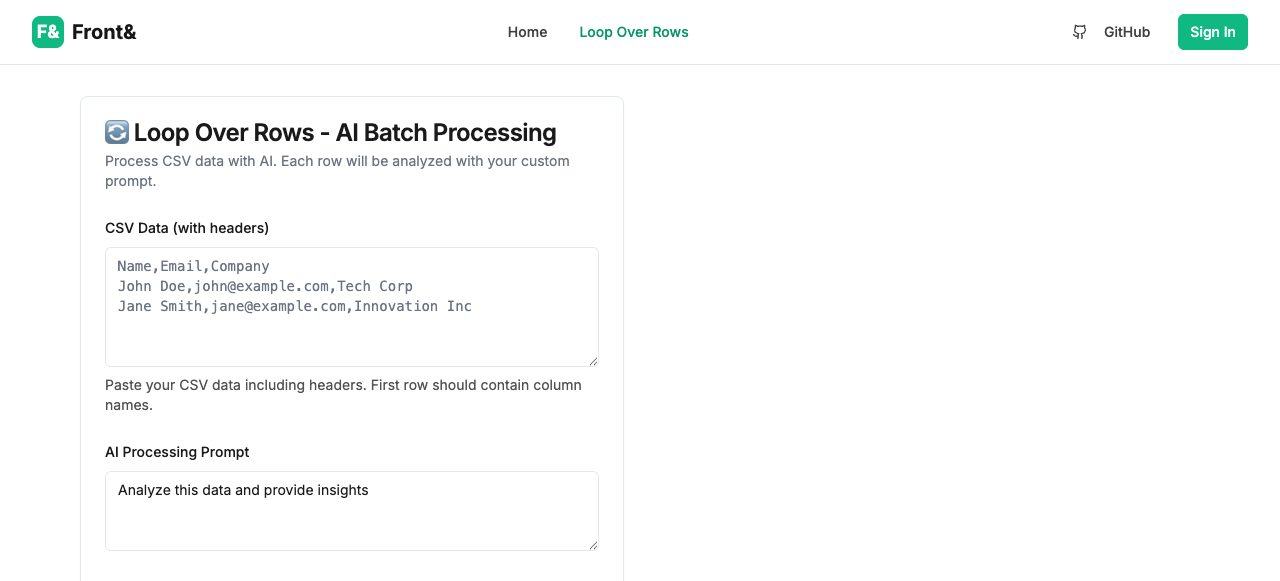
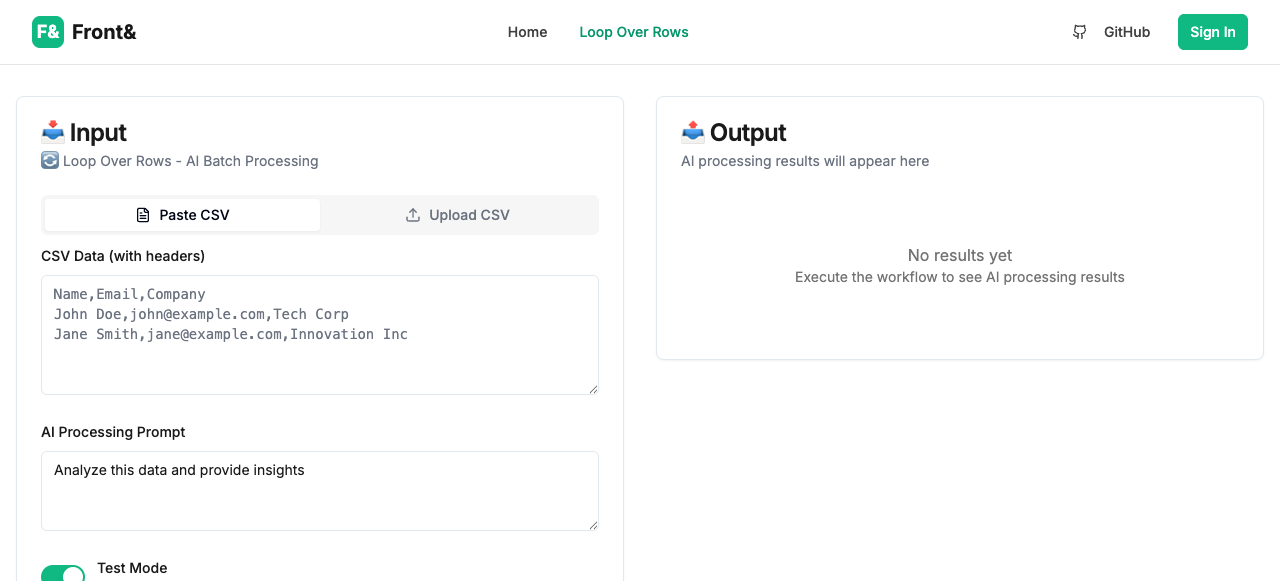
🔧 UX: Fix static height for input/preview areas & API format (data as objects + headers)

diff --git a/src/pages/FlowRunner-simple.tsx b/src/pages/FlowRunner-simple.tsx
@@ -78,11 +78,21 @@ const LoopOverRowsRunner: React.FC = () => {
     setError(null);
 
     try {
-      // Format data for Modal API
+      // Format data for Modal API - convert CSV to structured format
       const rowsToProcess = testMode ? parsedData.rows.slice(0, 1) : parsedData.rows;
       
+      // Convert rows to array of objects
+      const dataObjects = rowsToProcess.map(row => {
+        const obj: Record<string, string> = {};
+        parsedData.headers.forEach((header, index) => {
+          obj[header] = row[index] || '';
+        });
+        return obj;
+      });
+      
       const requestData = {
-        data: csvData.trim(),
+        data: dataObjects,
+        headers: parsedData.headers,
         prompt: prompt.trim(),
         test_mode: testMode
       };
@@ -142,58 +152,68 @@ const LoopOverRowsRunner: React.FC = () => {
                   </TabsTrigger>
                 </TabsList>
                 
-                <TabsContent value="text" className="space-y-2">
-                  <Label htmlFor="csv-data">CSV Data (with headers)</Label>
-                  <Textarea
-                    id="csv-data"
-                    placeholder={`Name,Email,Company
+                {/* Static height container to prevent jumping */}
+                <div className="min-h-[160px]">
+                  <TabsContent value="text" className="space-y-2 mt-4">
+                    <Label htmlFor="csv-data">CSV Data (with headers)</Label>
+                    <Textarea
+                      id="csv-data"
+                      placeholder={`Name,Email,Company
 John Doe,john@example.com,Tech Corp
 Jane Smith,jane@example.com,Innovation Inc`}
-                    value={csvData}
-                    onChange={(e) => handleTextInput(e.target.value)}
-                    className="min-h-[120px] font-mono text-sm"
-                  />
-                </TabsContent>
-                
-                <TabsContent value="file" className="space-y-2">
-                  <Label htmlFor="csv-file">Upload CSV File</Label>
-                  <Input
-                    id="csv-file"
-                    type="file"
-                    accept=".csv"
-                    onChange={handleFileUpload}
-                    className="cursor-pointer"
-                  />
-                </TabsContent>
+                      value={csvData}
+                      onChange={(e) => handleTextInput(e.target.value)}
+                      className="min-h-[120px] font-mono text-sm"
+                    />
+                  </TabsContent>
+                  
+                  <TabsContent value="file" className="space-y-2 mt-4">
+                    <Label htmlFor="csv-file">Upload CSV File</Label>
+                    <Input
+                      id="csv-file"
+                      type="file"
+                      accept=".csv"
+                      onChange={handleFileUpload}
+                      className="cursor-pointer"
+                    />
+                    {csvData && (
+                      <div className="mt-2 p-2 bg-gray-50 rounded text-sm">
+                        <span className="text-green-600">✓</span> File loaded successfully
+                      </div>
+                    )}
+                  </TabsContent>
+                </div>
               </Tabs>
 
-              {/* Data Preview */}
-              {parsedData && (
-                <Card className="bg-gray-50">
-                  <CardHeader className="pb-3">
-                    <CardTitle className="text-sm">Data Preview</CardTitle>
-                  </CardHeader>
-                  <CardContent className="pt-0">
-                    <div className="space-y-2 text-sm">
-                      <div className="font-mono">
-                        <div className="font-semibold text-blue-600">
-                          Headers: {parsedData.headers.join(' | ')}
+              {/* Data Preview - Static height container */}
+              <div className="min-h-[120px]">
+                {parsedData && (
+                  <Card className="bg-gray-50">
+                    <CardHeader className="pb-3">
+                      <CardTitle className="text-sm">Data Preview</CardTitle>
+                    </CardHeader>
+                    <CardContent className="pt-0">
+                      <div className="space-y-2 text-sm">
+                        <div className="font-mono">
+                          <div className="font-semibold text-blue-600">
+                            Headers: {parsedData.headers.join(' | ')}
+                          </div>
+                          {parsedData.rows.slice(0, 2).map((row, idx) => (
+                            <div key={idx} className="text-gray-700">
+                              Row {idx + 1}: {row.join(' | ')}
+                            </div>
+                          ))}
+                          {parsedData.rows.length > 2 && (
+                            <div className="text-gray-500">
+                              ... and {parsedData.rows.length - 2} more rows
+                            </div>
+                          )}
                         </div>
-                        {parsedData.rows.slice(0, 2).map((row, idx) => (
-                          <div key={idx} className="text-gray-700">
-                            Row {idx + 1}: {row.join(' | ')}
-                          </div>
-                        ))}
-                        {parsedData.rows.length > 2 && (
-                          <div className="text-gray-500">
-                            ... and {parsedData.rows.length - 2} more rows
-                          </div>
-                        )}
                       </div>
-                    </div>
-                  </CardContent>
-                </Card>
-              )}
+                    </CardContent>
+                  </Card>
+                )}
+              </div>
 
               {/* Prompt Input */}
               <div className="space-y-2">
